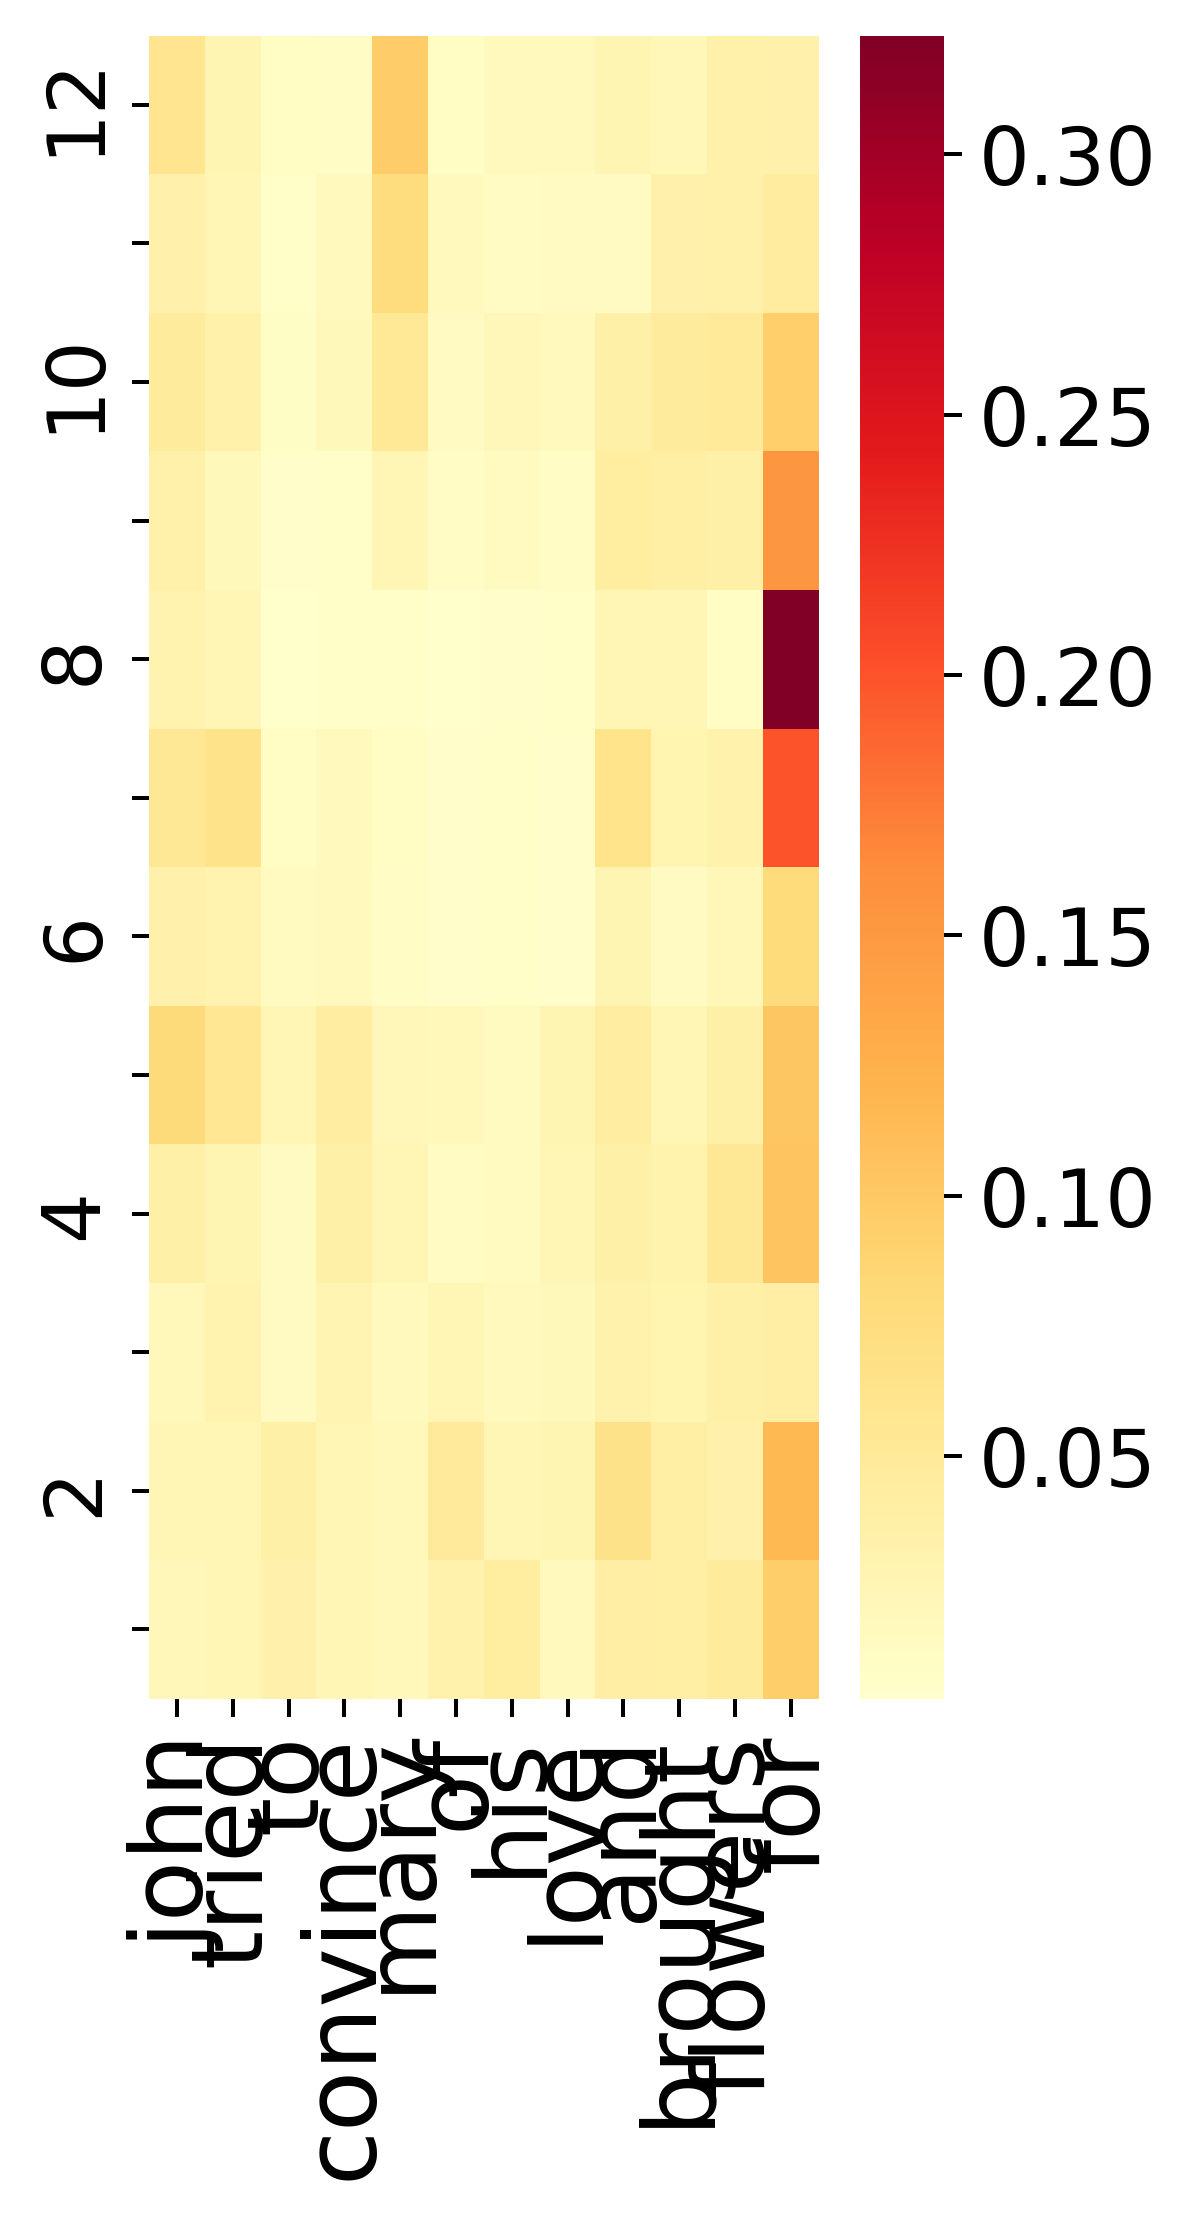
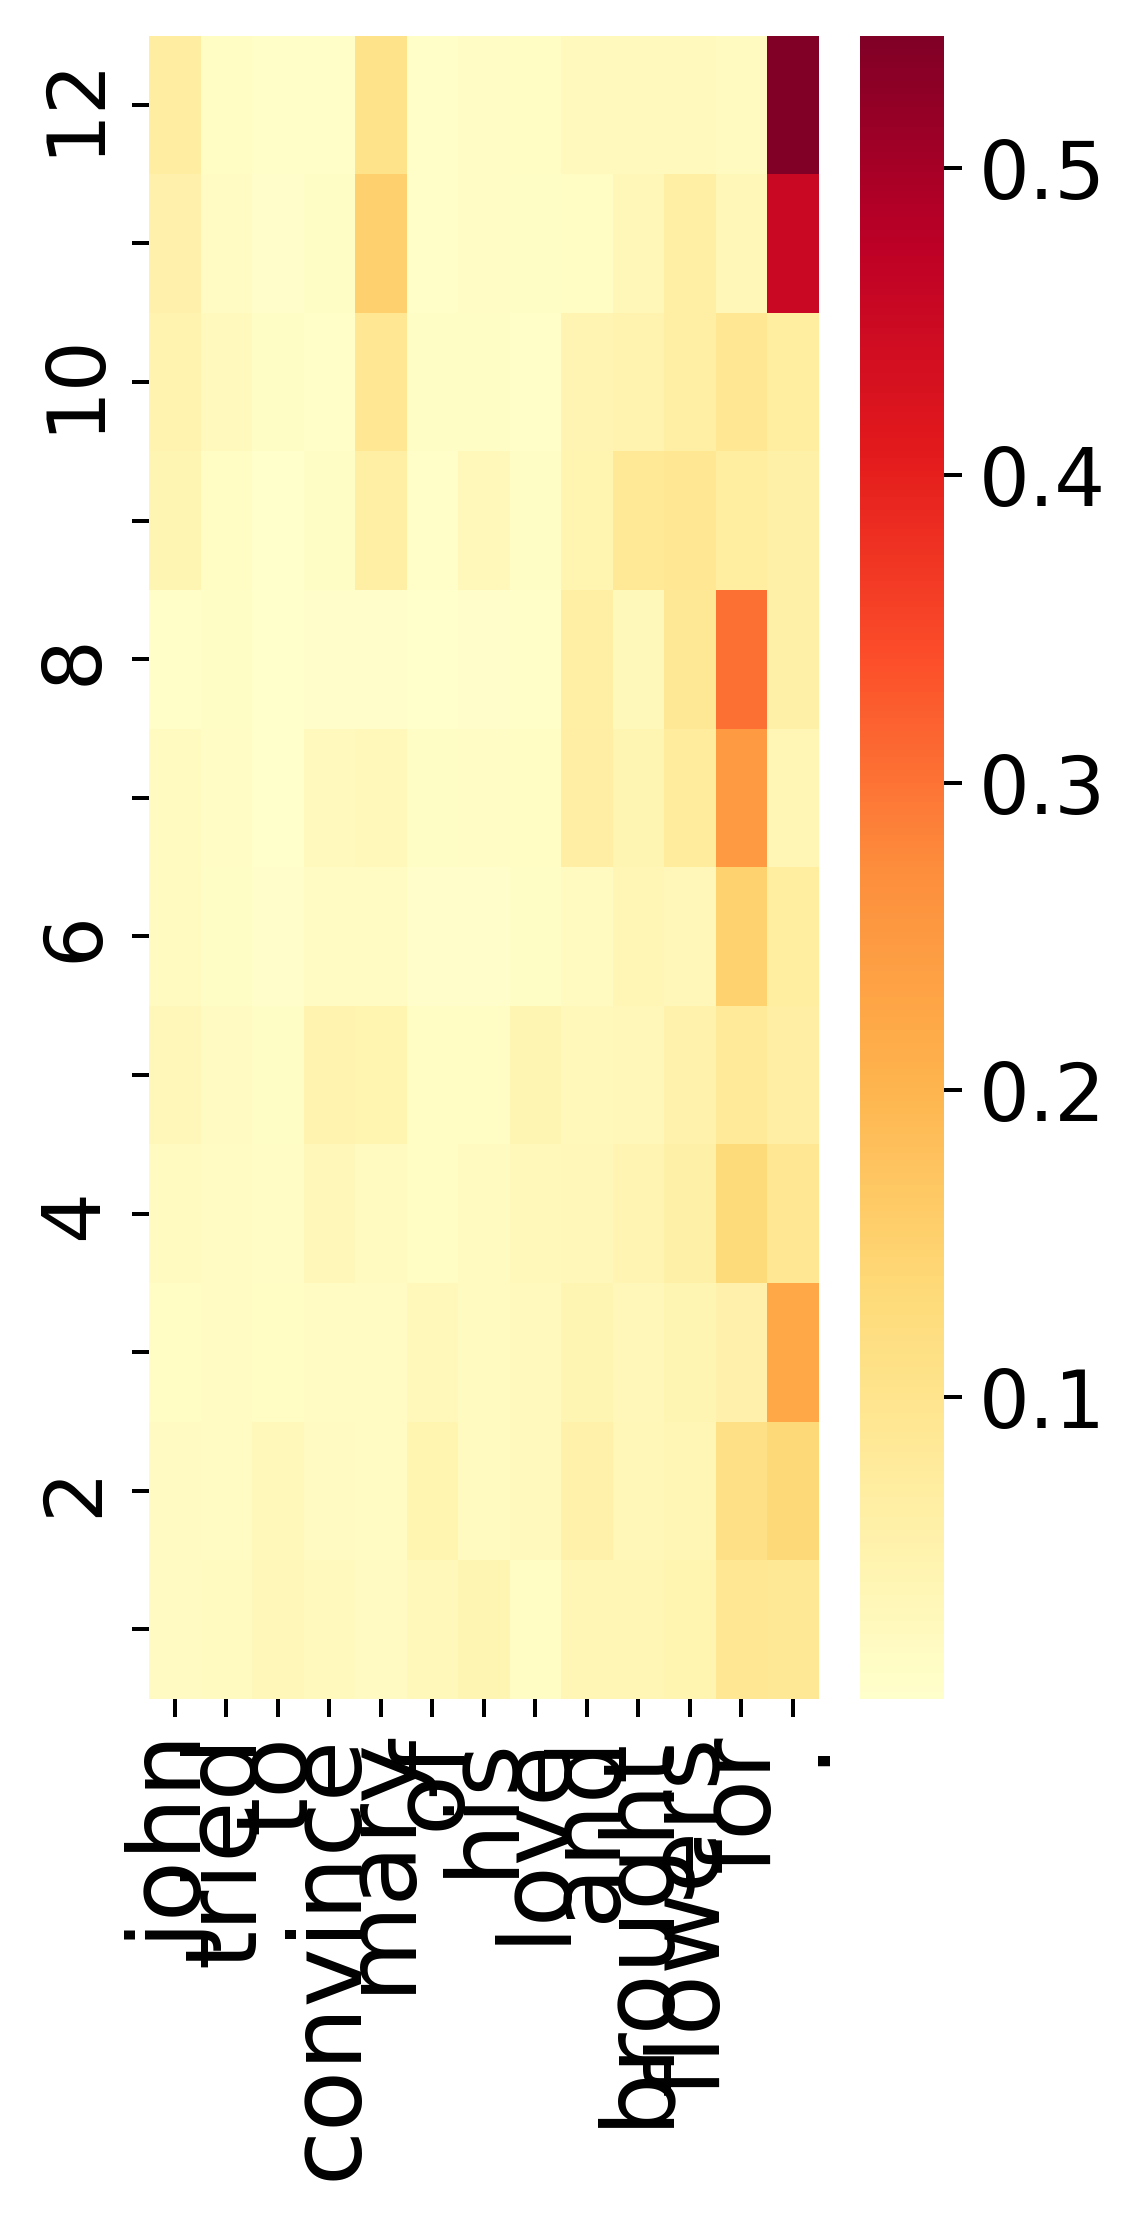
a

diff --git a/bert_example-checkpoint.py b/bert_example-checkpoint.py
@@ -75,7 +75,7 @@ BERT_MODEL_CLASSES = [BertModel, BertForPreTraining, BertForMaskedLM, BertForNex
 # All the classes for an architecture can be initiated from pretrained weights for this architecture
 # Note that additional weights added for fine-tuning are only initialized
 # and need to be trained on the down-stream task
-pretrained_weights = 'bert-large-uncased'
+pretrained_weights = 'bert-base-uncased'
 family = 'bert'
 print(f"model: {pretrained_weights}, family: {family}")
 tokenizer = BertTokenizer.from_pretrained(pretrained_weights)
@@ -153,7 +153,7 @@ for ex_id in range(0 , 9):
     _attentions = [att.detach().numpy() for att in all_attentions]
     attentions_mat = np.asarray(_attentions)[:,0]
 
-    attentions_mat = attentions_mat[:, :, 1:-1, 1:-1]
+    attentions_mat = attentions_mat[:, :, 1:src[ex_id], 1:src[ex_id]]
 
     output = model(input_ids)[0]
     predicted_target = torch.nn.Softmax(dim=-1)(output[0,src[ex_id]])
